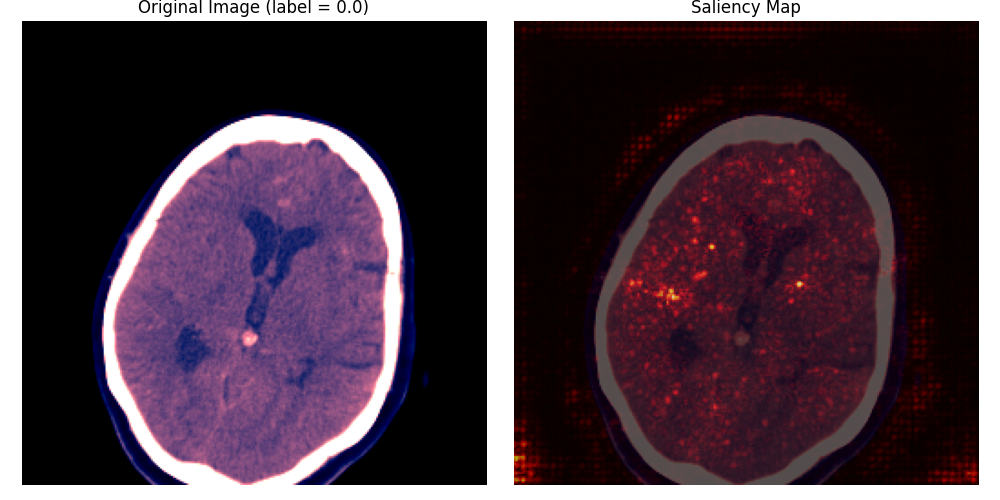
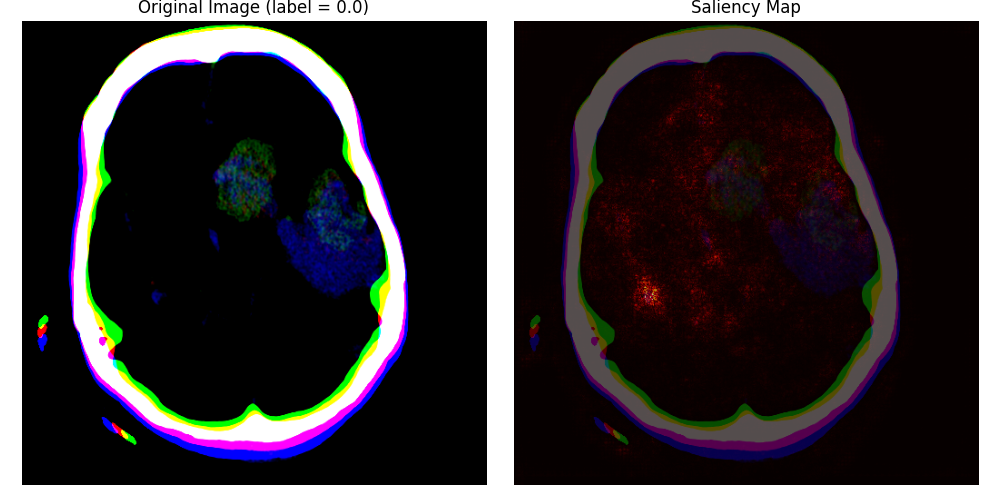
new model tests

diff --git a/dataloader.py b/dataloader.py
@@ -5,7 +5,7 @@ import os
 import pandas as pd
 import numpy as np
 import pydicom
-from albumentations import Compose, Resize
+from albumentations import Compose, Resize, CenterCrop
 import cv2
 # from iterstrat.ml_stratifiers import MultilabelStratifiedShuffleSplit
 from sklearn.model_selection import train_test_split
@@ -130,12 +130,16 @@ data_df = data_df.rename(columns={'ANY Vasoespasm ':'ANY_Vasospasm'})
 count_0 = len(data_df[data_df["ANY_Vasospasm"] == 0])
 count_1 = len(data_df[data_df["ANY_Vasospasm"] == 1])
 print("data_df before removing wrong paths : ","count 1 : ", count_1, "count 0 : ", count_0)
-
 data_df = data_df[data_df['Path'].apply(os.path.exists)]
-
 count_0 = len(data_df[data_df["ANY_Vasospasm"] == 0])
 count_1 = len(data_df[data_df["ANY_Vasospasm"] == 1])
 print("data_df after : ","count 1 : ", count_1, "count 0 : ", count_0)
+
+# Add dicom informations
+data_df[["PatientID", "SOPInstanceUID", "SeriesInstanceUID", "ImagePositionPatient2"]] = data_df["Path"].apply(utils.extract_dicom_info)
+data_df = data_df.sort_values(["PatientID", "SeriesInstanceUID", "ImagePositionPatient2"]).reset_index(drop=True)
+data_df["pre1_SOPInstanceUID"] = data_df.groupby(["PatientID", "SeriesInstanceUID"])["SOPInstanceUID"].shift(1)
+data_df["post1_SOPInstanceUID"] = data_df.groupby(["PatientID", "SeriesInstanceUID"])["SOPInstanceUID"].shift(-1)
 
 # No stratified split in patient
 # patiente = 8 #index of {patiente} in the path
@@ -229,19 +233,15 @@ def create_dataloader():
     # test_df = data2_df[data2_df['Path'].apply(lambda x: x.split('/')[patient_data2] in data2_df["HSA"].values)]
 
     # Oversampling for class 1 (~ 28% of 1) only for training !!
-
     # Method oversampling 1 (nb class 1 = nb class 0)
     # count_0 = len(train_df[train_df["ANY_Vasospasm"] == 0])
     # df_oversampled = train_df[train_df["ANY_Vasospasm"] == 1].sample(count_0, replace=True, random_state=configs.SEED)
     # df_balanced = pd.concat([train_df[train_df["ANY_Vasospasm"] == 0], df_oversampled])
     # train_df = df_balanced.sample(frac=1, random_state=configs.SEED).reset_index(drop=True)
-
     # Method oversampling 2 (double class 1)
     # vasospasm_df = train_df[train_df["ANY_Vasospasm"] == 1]
     # train_oversample_df = pd.concat([train_df, vasospasm_df])
     # train_df = train_oversample_df
-
-    print("traindf", train_df.head(10))
 
     count_0 = len(train_df[train_df["ANY_Vasospasm"] == 0])
     count_1 = len(train_df[train_df["ANY_Vasospasm"] == 1])
@@ -253,34 +253,57 @@ def create_dataloader():
     valid_labels = valid_df["ANY_Vasospasm"]
     test_labels = test_df["ANY_Vasospasm"]
 
+    # # ----------------------------------------Method 1 ------------------------------------------------
+    # # Train Dataset
+    # train_dataset = TrainDataset(
+    #     dataset=train_df,
+    #     labels=train_labels,
+    #     batch_size=configs.TRAIN_BATCH_SIZE,
+    #     augment=True
+    # )
+    # # Validation Dataset
+    # valid_dataset = TrainDataset(
+    #     dataset=valid_df,
+    #     labels=valid_labels,
+    #     batch_size=configs.VALID_BATCH_SIZE,
+    #     augment=False
+    # )
+    # # Test Dataset
+    # test_dataset = TrainDataset(
+    #     dataset=test_df,
+    #     labels=test_labels,
+    #     batch_size=configs.TEST_BATCH_SIZE,
+    #     augment=False
+    # )
+    # # Create DataLoaders
+    # trainloader = DataLoader(train_dataset, batch_size=configs.TRAIN_BATCH_SIZE, shuffle=True)
+    # validloader = DataLoader(valid_dataset, batch_size=configs.VALID_BATCH_SIZE, shuffle=False)
+    # testloader = DataLoader(test_dataset, batch_size=16, shuffle=False)
+
+
+    # ------------------------------------------Method 2 ------------------------------------------------
+    img_size = 512
+    test_augmentation = Compose([
+        CenterCrop(512 - 50, 512 - 50, p=1.0),
+        Resize(img_size, img_size, p=1)
+    ])
+
     # Train Dataset
-    train_dataset = TrainDataset(
-        dataset=train_df,
-        labels=train_labels,
-        batch_size=configs.TRAIN_BATCH_SIZE,
-        augment=True
-    )
-
+    train_dataset = RSNADataset(train_df, labels = train_labels, img_size= img_size, id_colname="SOPInstanceUID",
+                            transforms=test_augmentation, black_crop=False, subdural_window=True,
+                            n_tta=2)
     # Validation Dataset
-    valid_dataset = TrainDataset(
-        dataset=valid_df,
-        labels=valid_labels,
-        batch_size=configs.VALID_BATCH_SIZE,
-        augment=False
-    )
-
+    valid_dataset = RSNADataset(valid_df,  labels = valid_labels, img_size= img_size, id_colname="SOPInstanceUID",
+                            transforms=test_augmentation, black_crop=False, subdural_window=True,
+                            n_tta=2)
     # Test Dataset
-    test_dataset = TrainDataset(
-        dataset=test_df,
-        labels=test_labels,
-        batch_size=configs.TEST_BATCH_SIZE,
-        augment=False
-    )
-
+    test_dataset = RSNADataset(test_df, labels = test_labels, img_size= img_size, id_colname="SOPInstanceUID",
+                            transforms=test_augmentation, black_crop=False, subdural_window=True,
+                            n_tta=2)
     # Create DataLoaders
-    trainloader = DataLoader(train_dataset, batch_size=configs.TRAIN_BATCH_SIZE, shuffle=True)
-    validloader = DataLoader(valid_dataset, batch_size=configs.VALID_BATCH_SIZE, shuffle=False)
-    testloader = DataLoader(test_dataset, batch_size=16, shuffle=False)
+    trainloader = DataLoader(train_dataset, batch_size=configs.TRAIN_BATCH_SIZE, shuffle=True, num_workers=16, pin_memory=True)
+    validloader = DataLoader(valid_dataset, batch_size=configs.VALID_BATCH_SIZE, shuffle=False, num_workers=16, pin_memory=True)
+    testloader = DataLoader(test_dataset, batch_size=16, shuffle=False, num_workers=16, pin_memory=True)
     
     return trainloader, validloader, testloader
 
@@ -291,6 +314,186 @@ def create_dataloader():
 
 
 """ Other Data Loader (from https://github.com/okotaku/kaggle_rsna2019_3rd_solution) """
+
+class RSNADataset(Dataset):
+
+    def __init__(self,
+                 df,
+                 labels,
+                 img_size,
+                 crop_rate = 1.0,
+                 id_colname="Image",
+                 img_type=".dcm",
+                 transforms=None,
+                 means=[0.485, 0.456, 0.406],
+                 stds=[0.229, 0.224, 0.225],
+                 black_crop=False,
+                 subdural_window=False,
+                 three_window=False,
+                 n_tta=1,
+                 rescaling=False,
+                 user_window=1,
+                 pick_type="pre_post"
+                 ):
+        self.df = df
+        self.labels = labels
+        self.img_size = img_size
+        # self.image_path = image_path
+        self.transforms = transforms
+        self.means = np.array(means)
+        self.stds = np.array(stds)
+        self.id_colname = id_colname
+        self.img_type = img_type
+        self.crop_rate = crop_rate
+        self.black_crop = black_crop
+        self.subdural_window = subdural_window
+        self.three_window = three_window
+        self.n_tta = n_tta
+        self.transforms2 = Compose([
+            #CenterCrop(512 - 50, 512 - 50, p=1.0),
+            Resize(img_size, img_size, p=1)
+        ])
+        self.rescaling = rescaling
+        self.user_window = user_window
+        self.pick_type = pick_type
+
+    def __len__(self):
+        return self.df.shape[0]
+
+    def __getitem__(self, idx):
+        cur_idx_row = self.df.iloc[idx]
+        img_id = cur_idx_row[self.id_colname]
+        if self.pick_type == "pre_post":
+            img_id_pre = cur_idx_row.get("pre1_SOPInstanceUID")
+            if pd.isna(img_id_pre):
+                img_id_pre = img_id
+            img_id_post = cur_idx_row.get("post1_SOPInstanceUID")
+            if pd.isna(img_id_post):
+                img_id_post = img_id
+        # elif self.pick_type == "pre_pre":
+        #     img_id_pre = cur_idx_row[["pre1_SOPInstanceUID"]].fillna(value=img_id).values[0]
+        #     img_id_post = cur_idx_row[["pre2_SOPInstanceUID"]].fillna(value=img_id_pre).values[0]
+        # elif self.pick_type == "post_post":
+        #     img_id_pre = cur_idx_row[["post1_SOPInstanceUID"]].fillna(value=img_id).values[0]
+        #     img_id_post = cur_idx_row[["post2_SOPInstanceUID"]].fillna(value=img_id_pre).values[0]
+        if self.user_window == 1:
+            img = self._get_img(img_id, 1)
+            img_pre = self._get_img(img_id_pre, 2)
+            img_post = self._get_img(img_id_post, 3)
+        # elif self.user_window == 2:
+        #     img_id_prepre = cur_idx_row[["pre2_SOPInstanceUID"]].fillna(img_id_pre).values[0]
+        #     img_id_postpost = cur_idx_row[["post2_SOPInstanceUID"]].fillna(img_id_post).values[0]
+        #     img = self._get_img(img_id, 1)
+        #     img_pre = self._get_img(img_id_prepre, 2)
+        #     img_post = self._get_img(img_id_postpost, 3)
+
+        if img is None:
+            print(f"[ERROR] Invalid image shape at idx={idx} for img")
+            dummy_shape = (512, 512, 1)
+            img = np.zeros(dummy_shape, dtype=np.float32)
+        if img_pre is None:
+            print(f"[ERROR] Invalid pre image shape at idx={idx} for img")
+            dummy_shape = (512, 512, 1)
+            img_pre = np.zeros(dummy_shape, dtype=np.float32)
+        if img_post is None:
+            print(f"[ERROR] Invalid post image shape at idx={idx} for img")
+            dummy_shape = (512, 512, 1)
+            img_post = np.zeros(dummy_shape, dtype=np.float32)
+
+        img = np.concatenate([img, img_pre, img_post], axis=2)
+
+        if self.transforms is not None:
+            augmented = self.transforms(image=img)
+            img = augmented['image']
+
+        img = img / 255
+        img -= self.means
+        img /= self.stds
+        img = img.transpose((2, 0, 1))
+
+        # metadata
+        age = torch.tensor([self.df['Age'].iloc[idx]], dtype=torch.float32)
+        age = utils.normalize_min_max(age, 18, 100)
+        saps2 = torch.tensor([self.df['SAPSII'].iloc[idx]], dtype=torch.float32)
+        saps2 = utils.normalize_min_max(saps2, 0, 69)
+        gcs = torch.tensor([self.df['GCS'].iloc[idx]], dtype=torch.float32)
+        gcs = utils.normalize_min_max_inverted(gcs, 3, 15)
+        fisher = torch.tensor([self.df['Fisher'].iloc[idx]], dtype=torch.float32)
+        fisher = utils.normalize_min_max(fisher, 1, 4)
+        hunthess = torch.tensor([self.df['HuntHess'].iloc[idx]], dtype=torch.float32)
+        hunthess = utils.normalize_min_max(hunthess, 1, 5)
+        wfns = torch.tensor([self.df['WFNS'].iloc[idx]], dtype=torch.float32)
+        wfns = utils.normalize_min_max(wfns, 1, 5)
+        sex = self.df['Sex'].iloc[idx]
+        sex = F.one_hot(torch.tensor(sex, dtype=torch.long), num_classes=2).float() # dim = 2
+
+        meta = torch.cat([age, sex, saps2, gcs, fisher, hunthess, wfns], dim=0) # dim = 8
+        # label
+        label = torch.tensor(self.labels.iloc[idx], dtype=torch.float32)
+
+        return {'image':img, 'meta':meta, 'label':label}
+
+    def _get_img(self, img_id, n):
+        # img_path = os.path.join(self.image_path, img_id + self.img_type)
+        row = self.df[self.df[self.id_colname] == img_id]
+        if row.empty:
+            # Ignorer cette image si elle n'existe pas dans le DataFrame
+            print(f"[WARNING] Image ID '{img_id}' introuvable dans la DataFrame. Ignorée.")
+            return None  # ou retourner une image vide (ex: np.zeros(...))
+
+        img_path = row["Path"].values[0]
+        dataset = pydicom.dcmread(img_path)
+        image = dataset.pixel_array
+
+        if image.shape[0] != 512 or image.shape[1] != 512:
+            image = cv2.resize(image, (512, 512))
+
+
+
+        if self.black_crop:
+            try:
+                mask_img = image > np.mean(image)
+                sum_channel = np.sum(mask_img, 2)
+                w_cr = np.where(sum_channel.sum(0) != 0)
+                h_cr = np.where(sum_channel.sum(1) != 0)
+            except:
+                print("pass black crop {}".format(img_id))
+
+        if self.subdural_window:
+            window_center, window_width, intercept, slope = get_windowing(dataset)
+            image = rescale_image(image, intercept, slope)
+            image = window_image(image, 80, 200)
+        elif self.three_window:
+            window_center, window_width, intercept, slope = get_windowing(dataset)
+            image = rescale_image(image, intercept, slope)
+            if n == 1:
+                image = window_image(image, 80, 200, self.rescaling)
+                if not self.rescaling:
+                    image = (image - (-20)) / 200
+            elif n == 2:
+                image = window_image(image, 40, 80, self.rescaling)
+                if not self.rescaling:
+                    image = (image - 0) / 80
+            elif n == 3:
+                image = window_image(image, 40, 300, self.rescaling)
+                if not self.rescaling:
+                    image = (image - (-150)) / 380
+
+        if self.black_crop:
+            try:
+                image = image[np.min(h_cr):np.max(h_cr) + 1, np.min(w_cr):np.max(w_cr) + 1, :]
+            except:
+                print("pass black crop {}".format(img_id))
+
+        if not self.subdural_window and not self.three_window:
+            min_ = image.min()
+            max_ = image.max()
+            image = (image - min_) / (max_ - min_)
+            image = image * 255
+
+        image = np.expand_dims(image, axis=2)
+
+        return image
 
 class RSNADatasetTest(Dataset):
 

diff --git a/data_preprocessing/test_prepare_data.py b/data_preprocessing/test_prepare_data.py
@@ -59,22 +59,12 @@ predictions_df = predictions_df[predictions_df['Path'].isin(invalid_paths) == Fa
 # plt.close()
 
 # 4. Add dicom informations to order the slices
-def extract_dicom_info(dcm_path):
-    try:
-        dcm = pydicom.dcmread(dcm_path, stop_before_pixels=True)
-        patient_id = dcm.PatientID
-        sop_uid = dcm.SOPInstanceUID
-        series_uid = dcm.SeriesInstanceUID
-        ipp2 = float(dcm.ImagePositionPatient[2])  # Z-axis position
-        return pd.Series([patient_id, sop_uid, series_uid, ipp2])
-    except Exception as e:
-        print(f"Erreur lecture {dcm_path}: {e}")
-        return pd.Series([None, None, None, None])
-predictions_df[["PatientID", "SOPInstanceUID", "SeriesInstanceUID", "ImagePositionPatient2"]] = predictions_df["Path"].apply(extract_dicom_info)
+predictions_df[["PatientID", "SOPInstanceUID", "SeriesInstanceUID", "ImagePositionPatient2"]] = predictions_df["Path"].apply(utils.extract_dicom_info)
 predictions_df = predictions_df.sort_values(["PatientID", "SeriesInstanceUID", "ImagePositionPatient2"]).reset_index(drop=True)
 predictions_df["pre1_SOPInstanceUID"] = predictions_df.groupby(["PatientID", "SeriesInstanceUID"])["SOPInstanceUID"].shift(1)
 predictions_df["post1_SOPInstanceUID"] = predictions_df.groupby(["PatientID", "SeriesInstanceUID"])["SOPInstanceUID"].shift(-1)
 
+# 5. Save to an excel sheet_name = identifiers
 predictions_df.to_excel('/export/usuarios01/lmurat/Datos/Predictions-SAH/data_preprocessing/test_predictions.xlsx', sheet_name="identifiers", index=False)
 
 

diff --git a/utils.py b/utils.py
@@ -1,6 +1,7 @@
 import torch
 import torch.nn.functional as F
 from torchvision import transforms
+import pandas as pd
 import numpy as np
 import os
 import matplotlib.pyplot as plt
@@ -178,3 +179,16 @@ def _read_new(img_path):
 
     img = torch.stack(channels)  # Shape: [3, H, W]
     return img
+
+# to extract ["PatientID", "SOPInstanceUID", "SeriesInstanceUID", "ImagePositionPatient2"]
+def extract_dicom_info(dcm_path):
+    try:
+        dcm = pydicom.dcmread(dcm_path, stop_before_pixels=True)
+        patient_id = dcm.PatientID
+        sop_uid = dcm.SOPInstanceUID
+        series_uid = dcm.SeriesInstanceUID
+        ipp2 = float(dcm.ImagePositionPatient[2])  # Z-axis position
+        return pd.Series([patient_id, sop_uid, series_uid, ipp2])
+    except Exception as e:
+        print(f"Erreur lecture {dcm_path}: {e}")
+        return pd.Series([None, None, None, None])

diff --git a/main_iterations.py b/main_iterations.py
@@ -36,8 +36,8 @@ for k in range(nb_iterations):
 
     # Load model
     from model import get_model, Classifier, Classifier_Many_Layers
-    model = get_model(prob=0.5, image_backbone="densenet169", pretrained = "medical", classifier=Classifier, metadata=True) #prob = prob for dropout
-    my_model=Model_extented(model, epochs=4, lr=1e-3)
+    model = get_model(prob=0.5, image_backbone="se_resnext50_32x4d", pretrained = "medical", classifier=Classifier, metadata=True) #prob = prob for dropout
+    my_model=Model_extented(model, epochs=3, lr=1e-3)
 
     # Training
     my_model.trainloop(trainloader, validloader, testloader)

diff --git a/data_preprocessing/predictions.py b/data_preprocessing/predictions.py
@@ -99,7 +99,6 @@ def predict(model, test_loader, device, n_tta=1, flip_aug=False):
     with torch.no_grad():
         for step, imgs in tqdm(enumerate(test_loader), total=len(test_loader), desc="Predicting"):
             features = imgs[0].to(device)
-            print(f"Batch {step} size: {features.shape[0]}, img size : {features.shape[2:] }")
             logits = model(features)
 
             if n_tta >= 2:
